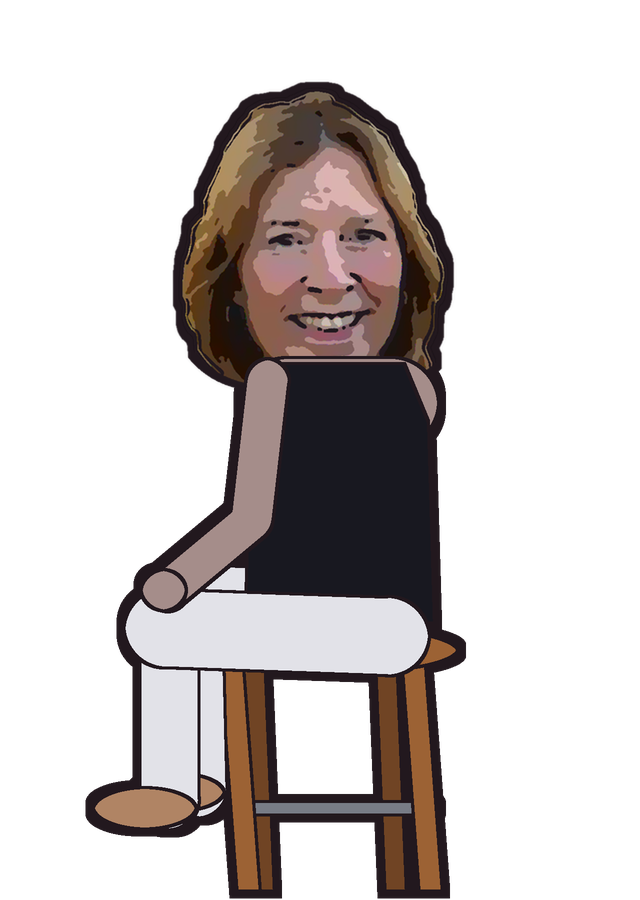
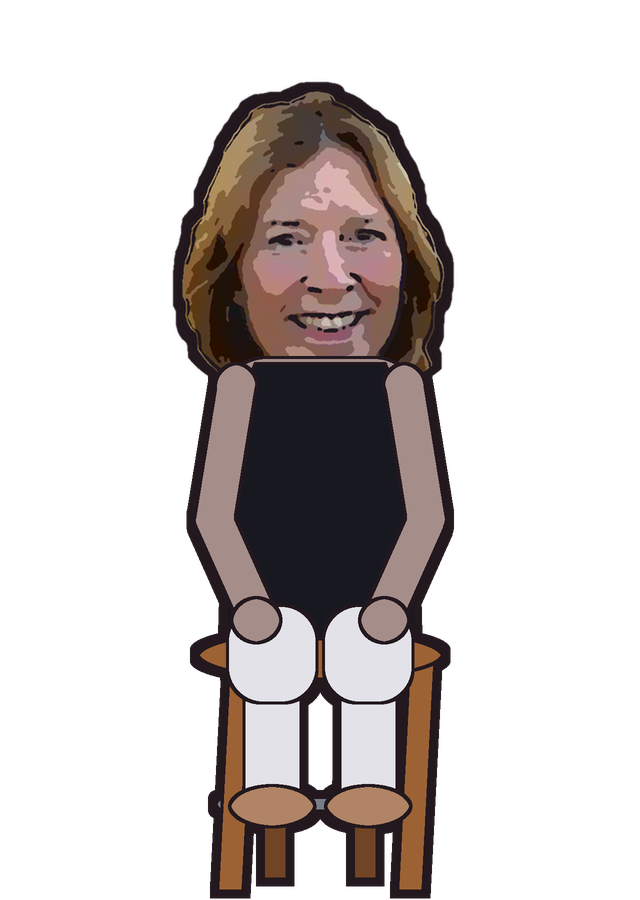
Face the bodies forward and add a table between them
Bryan and Jane now sit facing the viewer with hands on their laps. Adds
a hightop table layer, and anchors.json gives every layer's position in
the 960x540 scene plus where the napkin goes.

Claude-Session: https://claude.ai/code/session_01TktpGdAMwEXXGVahbjaJRu

Changed region(s): [[0.125, 0.3733, 0.75, 1.0]]

diff --git a/tools/make_characters.py b/tools/make_characters.py
@@ -5,13 +5,14 @@ Reads assets/characters/cartoon/<name>.png (made by cartoonize.py) and writes:
 
   assets/characters/seated/<name>.png       full-size master, 900 px tall
   assets/characters/seated/<name>_game.png  450 px tall, for the 960x540 scene
+  assets/characters/seated/table.png        hightop table, same scale as _game
   assets/characters/seated/napkin.png       napkin layer for Bryan's lap
-  assets/characters/seated/anchors.json     where things are in the game images
+  assets/characters/seated/anchors.json     where everything goes in the scene
 
 Bodies are simple flat shapes in the same style as the heads: flat colours,
 a thin ink line around each part and a thick ink outline around the whole
-figure. Bryan faces right (toward the table), Jane faces left. Shirt and
-pants colours come from the photos.
+figure. Both face forward, with the table between them. Shirt and pants
+colours come from the photos.
 
 Usage:
   python3 tools/make_characters.py
@@ -28,11 +29,12 @@ ROOT = Path(__file__).resolve().parent.parent
 HEAD_DIR = ROOT / "assets" / "characters" / "cartoon"
 OUT_DIR = ROOT / "assets" / "characters" / "seated"
 
-# Bodies are laid out on a 640 x 900 grid and drawn at SS times that size,
+# Figures are laid out on a 640 x 900 grid and drawn at SS times that size,
 # then scaled down, which gives smooth edges.
 W, H = 640, 900
 SS = 2
 GAME_HEIGHT = 450
+SCALE = GAME_HEIGHT / H
 INK = (34, 24, 30)
 OUTLINE_PX = 6             # outline around the whole figure
 LINE_PX = 3                # line around each body part
@@ -41,9 +43,16 @@ HEAD_HEIGHT = 300          # head size on the 640 x 900 grid
 HEAD_BOTTOM = 384          # where the head's flat bottom sits, over the collar
 HEAD_TRIM = 0.03           # share of the head's bottom edge (with its ink line) cut off
 
+TABLE_W = 440              # table canvas width on the grid
+
+# Top-left corners in the 960 x 540 scene, for the _game images and table.png.
+SCENE = {"bryan": (170, 90), "table": (370, 90), "jane": (470, 90)}
+LAP = (320, 640)           # centre of the lap on the grid
+
 WOOD = (156, 98, 52)
 WOOD_DARK = (112, 68, 36)
 METAL = (120, 124, 134)
+METAL_DARK = (88, 92, 102)
 NAPKIN = (246, 244, 236)
 NAPKIN_SHADE = (214, 210, 200)
 
@@ -54,7 +63,6 @@ CHARACTERS = {
         "shorts": True,
         "shoes": (70, 52, 40),
         "sleeves": "short",
-        "faces": "right",
     },
     "jane": {
         "shirt": (24, 24, 32),
@@ -62,7 +70,6 @@ CHARACTERS = {
         "shorts": False,
         "shoes": (176, 132, 100),
         "sleeves": "none",
-        "faces": "left",
     },
 }
 
@@ -70,36 +77,34 @@ CHARACTERS = {
 class Figure:
     """Stack of flat-coloured parts, drawn back to front."""
 
-    def __init__(self):
+    def __init__(self, w=W, h=H):
+        self.size = (w * SS, h * SS)
         self.parts = []
 
     def part(self, colour):
-        mask = Image.new("L", (W * SS, H * SS), 0)
+        mask = Image.new("L", self.size, 0)
         self.parts.append((mask, colour))
-        return ImageDraw.Draw(mask), mask
+        return ImageDraw.Draw(mask)
 
     def poly(self, colour, pts):
-        d, _ = self.part(colour)
-        d.polygon([(x * SS, y * SS) for x, y in pts], fill=255)
+        self.part(colour).polygon([(x * SS, y * SS) for x, y in pts], fill=255)
 
     def ellipse(self, colour, box):
-        d, _ = self.part(colour)
-        d.ellipse([v * SS for v in box], fill=255)
+        self.part(colour).ellipse([v * SS for v in box], fill=255)
 
     def rrect(self, colour, box, r):
-        d, _ = self.part(colour)
-        d.rounded_rectangle([v * SS for v in box], radius=r * SS, fill=255)
+        self.part(colour).rounded_rectangle([v * SS for v in box], radius=r * SS, fill=255)
 
     def image(self, img, xy):
         """A ready-made picture (the head), outlined with the rest of the figure."""
-        layer = Image.new("RGBA", (W * SS, H * SS), (0, 0, 0, 0))
+        layer = Image.new("RGBA", self.size, (0, 0, 0, 0))
         img = img.resize((img.width * SS, img.height * SS), Image.Resampling.LANCZOS)
         layer.paste(img, (xy[0] * SS, xy[1] * SS))
         self.parts.append((layer.getchannel("A"), layer))
 
     def limb(self, colour, pts, width):
         """A thick rounded stroke through the given joints."""
-        d, _ = self.part(colour)
+        d = self.part(colour)
         s = [(x * SS, y * SS) for x, y in pts]
         d.line(s, fill=255, width=width * SS, joint="curve")
         r = width * SS / 2
@@ -107,13 +112,12 @@ class Figure:
             d.ellipse([x - r, y - r, x + r, y + r], fill=255)
 
     def render(self):
-        size = (W * SS, H * SS)
-        union = Image.new("L", size, 0)
+        union = Image.new("L", self.size, 0)
         for mask, _ in self.parts:
             union = ImageChops.lighter(union, mask)
         outline = union.filter(ImageFilter.MaxFilter(OUTLINE_PX * SS * 2 + 1))
 
-        out = Image.new("RGBA", size, (0, 0, 0, 0))
+        out = Image.new("RGBA", self.size, (0, 0, 0, 0))
         out.paste(INK + (255,), mask=outline)
         line = LINE_PX * SS * 2 + 1
         for mask, colour in self.parts:
@@ -123,53 +127,60 @@ class Figure:
                 continue
             inner = mask.filter(ImageFilter.MinFilter(line))
             out.paste(colour + (255,), mask=inner)
-        return out.resize((W, H), Image.Resampling.LANCZOS)
+        return out.resize((self.size[0] // SS, self.size[1] // SS), Image.Resampling.LANCZOS)
 
 
 def stool(f):
-    """Bar stool, seat centred at x=300, y=640."""
-    for x0, x1 in ((222, 246), (354, 378)):          # back legs
-        f.poly(WOOD_DARK, [(x0 + 20, 650), (x1 + 20, 650), (x1 + 10, 892), (x0 + 10, 892)])
-    f.rrect(METAL, (200, 800, 400, 816), 8)          # footrest ring
-    for x0, x1 in ((196, 222), (378, 404)):          # front legs
-        f.poly(WOOD, [(x0 + 18, 650), (x1 + 18, 650), (x1, 892), (x0, 892)])
-    f.ellipse(WOOD, (180, 626, 420, 674))            # seat
+    """Bar stool from the front, seat centred at x=320, y=650."""
+    for x in (262, 352):                              # back legs
+        f.poly(WOOD_DARK, [(x, 660), (x + 26, 660), (x + 26, 880), (x, 880)])
+    f.rrect(METAL, (214, 796, 426, 812), 8)           # footrest
+    for x0, x1 in ((216, 244), (396, 424)):           # front legs
+        f.poly(WOOD, [(x0 + 12, 660), (x1 + 12, 660), (x1, 892), (x0, 892)])
+    f.ellipse(WOOD, (196, 630, 444, 680))             # seat
 
 
 def body(f, c, skin, head):
-    """Seated body facing right. Jane is mirrored afterwards."""
-    sleeve = c["shirt"] if c["sleeves"] == "short" else skin
+    """Seated body facing forward, centred at x=320."""
     shin = skin if c["shorts"] else c["pants"]
 
-    # Far arm, mostly hidden behind the torso, hand on the far thigh.
-    f.limb(skin, [(250, 370), (240, 500), (330, 575)], 42)
-
-    # Far leg, a little higher up the stool so both feet show.
-    f.limb(shin, [(444, 620), (440, 790)], 50 if c["shorts"] else 58)
-    f.limb(c["pants"], [(270, 606), (448, 598)], 72)
-    f.ellipse(c["shoes"], (414, 772, 506, 812))
+    # Shins hang from the knees to the footrest.
+    for x in (272, 368):
+        f.limb(shin, [(x, 690), (x, 790)], 52 if c["shorts"] else 60)
+    for x in (272, 368):
+        f.ellipse(c["shoes"], (x - 44, 784, x + 44, 828))
 
     # Head goes behind the torso so the collar hides its cut-off bottom.
     f.image(head, ((W - head.width) // 2, HEAD_BOTTOM - head.height))
 
     # Torso. A tank top shows bare shoulders.
     if c["sleeves"] == "none":
-        f.rrect(skin, (200, 356, 400, 450), 46)
-        f.poly(c["shirt"], [(234, 362), (366, 362), (390, 420), (396, 624),
-                            (204, 624), (210, 420)])
+        f.rrect(skin, (218, 356, 422, 450), 46)
+        f.poly(c["shirt"], [(254, 362), (386, 362), (410, 420), (416, 640),
+                            (224, 640), (230, 420)])
     else:
-        f.rrect(c["shirt"], (200, 356, 400, 624), 46)
+        f.rrect(c["shirt"], (218, 356, 422, 640), 46)
 
-    # Near leg: shin down to the footrest, thigh forward over the seat.
-    f.limb(shin, [(470, 650), (470, 800)], 54 if c["shorts"] else 62)
-    f.limb(c["pants"], [(250, 636), (476, 628)], 82)
-    f.ellipse(c["shoes"], (442, 786, 548, 830))
+    # Thighs come toward the viewer, so they show as short shapes: the lap.
+    f.rrect(c["pants"], (226, 604, 318, 704), 34)
+    f.rrect(c["pants"], (322, 604, 414, 704), 34)
 
-    # Near arm: upper arm down the side, forearm resting on the thigh.
-    f.limb(skin, [(372, 380), (388, 520), (472, 590)], 46)
-    f.ellipse(skin, (452, 568, 500, 612))             # hand
-    if c["sleeves"] == "short":
-        f.limb(sleeve, [(372, 376), (382, 440)], 62)
+    # Arms down the sides, hands resting on the thighs.
+    for sx, ex, hx in ((236, 214, 256), (404, 426, 384)):
+        f.limb(skin, [(sx, 384), (ex, 520), (hx, 614)], 44)
+        f.ellipse(skin, (hx - 26, 596, hx + 26, 644))
+        if c["sleeves"] == "short":
+            f.limb(c["shirt"], [(sx, 380), (sx + (ex - sx) // 2, 446)], 60)
+
+
+def table():
+    """Hightop table on a pedestal, top at about chest height when seated."""
+    f = Figure(TABLE_W, H)
+    f.ellipse(METAL_DARK, (100, 852, 340, 896))       # base
+    f.rrect(METAL, (204, 560, 236, 872), 12)          # pedestal
+    f.ellipse(WOOD_DARK, (16, 516, 424, 588))         # edge of the top
+    f.ellipse(WOOD, (16, 500, 424, 568))              # top
+    return f.render()
 
 
 def skin_tone(head):
@@ -193,24 +204,6 @@ def napkin():
     return img.crop(img.getbbox())
 
 
-def make(name, c):
-    head = Image.open(HEAD_DIR / f"{name}.png").convert("RGBA")
-    head = head.crop((0, 0, head.width, round(head.height * (1 - HEAD_TRIM))))
-    head = head.resize((round(head.width * HEAD_HEIGHT / head.height), HEAD_HEIGHT),
-                       Image.Resampling.LANCZOS)
-    head = round_bottom(head)
-    skin = skin_tone(head)
-
-    f = Figure()
-    stool(f)
-    # The figure is drawn facing right and mirrored for Jane. Pre-flip her
-    # head so it ends up the right way round.
-    flip = c["faces"] == "left"
-    body(f, c, skin, head.transpose(Image.Transpose.FLIP_LEFT_RIGHT) if flip else head)
-    img = f.render()
-    return img.transpose(Image.Transpose.FLIP_LEFT_RIGHT) if flip else img
-
-
 def round_bottom(head):
     """Round off the bottom corners so hair doesn't end in a flat cut."""
     w, h = head.size
@@ -222,41 +215,63 @@ def round_bottom(head):
     return head
 
 
+def make(name, c):
+    head = Image.open(HEAD_DIR / f"{name}.png").convert("RGBA")
+    head = head.crop((0, 0, head.width, round(head.height * (1 - HEAD_TRIM))))
+    head = head.resize((round(head.width * HEAD_HEIGHT / head.height), HEAD_HEIGHT),
+                       Image.Resampling.LANCZOS)
+    head = round_bottom(head)
+
+    f = Figure()
+    stool(f)
+    body(f, c, skin_tone(head), head)
+    return f.render()
+
+
+def to_game(img):
+    return img.resize((round(img.width * SCALE), round(img.height * SCALE)),
+                      Image.Resampling.LANCZOS)
+
+
 def main():
     ap = argparse.ArgumentParser(description=__doc__.split("\n")[0])
     ap.add_argument("--preview", action="store_true", help="write seated/preview.png")
     args = ap.parse_args()
 
     OUT_DIR.mkdir(exist_ok=True)
-    scale = GAME_HEIGHT / H
-    anchors = {"game_height": GAME_HEIGHT}
-    made = {}
+    layers = {}
     for name, c in CHARACTERS.items():
         img = make(name, c)
         img.save(OUT_DIR / f"{name}.png", optimize=True)
-        game = img.resize((round(W * scale), GAME_HEIGHT), Image.Resampling.LANCZOS)
-        game.save(OUT_DIR / f"{name}_game.png", optimize=True)
-        made[name] = img
+        layers[name] = to_game(img)
+        layers[name].save(OUT_DIR / f"{name}_game.png", optimize=True)
         print("wrote", (OUT_DIR / f"{name}.png").relative_to(ROOT))
 
-    nap = napkin()
-    nap_game = nap.resize((round(nap.width * scale), round(nap.height * scale)),
-                          Image.Resampling.LANCZOS)
-    nap_game.save(OUT_DIR / "napkin.png", optimize=True)
-    # Centre of the napkin on Bryan's near thigh, in bryan_game.png pixels.
-    anchors["bryan_lap"] = {"x": round(400 * scale), "y": round(600 * scale)}
-    anchors["napkin_size"] = {"w": nap_game.width, "h": nap_game.height}
-    (OUT_DIR / "anchors.json").write_text(json.dumps(anchors, indent=2) + "\n")
+    layers["table"] = to_game(table())
+    layers["table"].save(OUT_DIR / "table.png", optimize=True)
+    nap = to_game(napkin())
+    nap.save(OUT_DIR / "napkin.png", optimize=True)
+    print("wrote", (OUT_DIR / "table.png").relative_to(ROOT))
     print("wrote", (OUT_DIR / "napkin.png").relative_to(ROOT))
 
+    # Napkin's top-left corner in the scene, centred on Bryan's lap.
+    bx, by = SCENE["bryan"]
+    lap = (bx + round(LAP[0] * SCALE), by + round(LAP[1] * SCALE))
+    anchors = {
+        "scene": {"w": 960, "h": 540},
+        "layers": {k: {"x": x, "y": y} for k, (x, y) in SCENE.items()},
+        "napkin": {"x": lap[0] - nap.width // 2, "y": lap[1] - nap.height // 2,
+                   "w": nap.width, "h": nap.height},
+    }
+    (OUT_DIR / "anchors.json").write_text(json.dumps(anchors, indent=2) + "\n")
+
     if args.preview:
-        sheet = Image.new("RGBA", (W * 2 + 120, H + 80), (236, 228, 214, 255))
-        sheet.alpha_composite(made["bryan"], (40, 40))
-        sheet.alpha_composite(made["jane"], (W + 80, 40))
-        lap = anchors["bryan_lap"]
-        sheet.alpha_composite(nap, (40 + round(lap["x"] / scale) - nap.width // 2,
-                                    40 + round(lap["y"] / scale) - nap.height // 2))
-        sheet.convert("RGB").save(OUT_DIR / "preview.png")
+        scene = Image.new("RGBA", (960, 540), (236, 228, 214, 255))
+        for name in ("bryan", "jane", "table"):
+            scene.alpha_composite(layers[name], SCENE[name])
+        n = anchors["napkin"]
+        scene.alpha_composite(nap, (n["x"], n["y"]))
+        scene.convert("RGB").save(OUT_DIR / "preview.png")
         print("wrote", (OUT_DIR / "preview.png").relative_to(ROOT))
 
 

diff --git a/README.md b/README.md
@@ -17,12 +17,13 @@ assets/
       bryan.png, jane.png                 512 px tall
       bryan_sprite.png, jane_sprite.png   128 px tall, for the game
       preview.png                         before/after sheet
-    seated/      heads on cartoon bodies sitting on bar stools (generated)
+    seated/      heads on cartoon bodies on bar stools, plus table (generated)
       bryan.png, jane.png                 640 x 900 masters
       bryan_game.png, jane_game.png       320 x 450, for the 960 x 540 scene
+      table.png                           hightop table, same scale
       napkin.png                          napkin layer for Bryan's lap
-      anchors.json                        where the napkin goes on bryan_game.png
-      preview.png                         both characters, napkin on
+      anchors.json                        where each layer goes in the scene
+      preview.png                         the whole scene, napkin on
     source/      original photos and crops (not committed, see .gitignore)
 tools/
   cartoonize.py        makes assets/characters/cartoon/ from the cutouts
